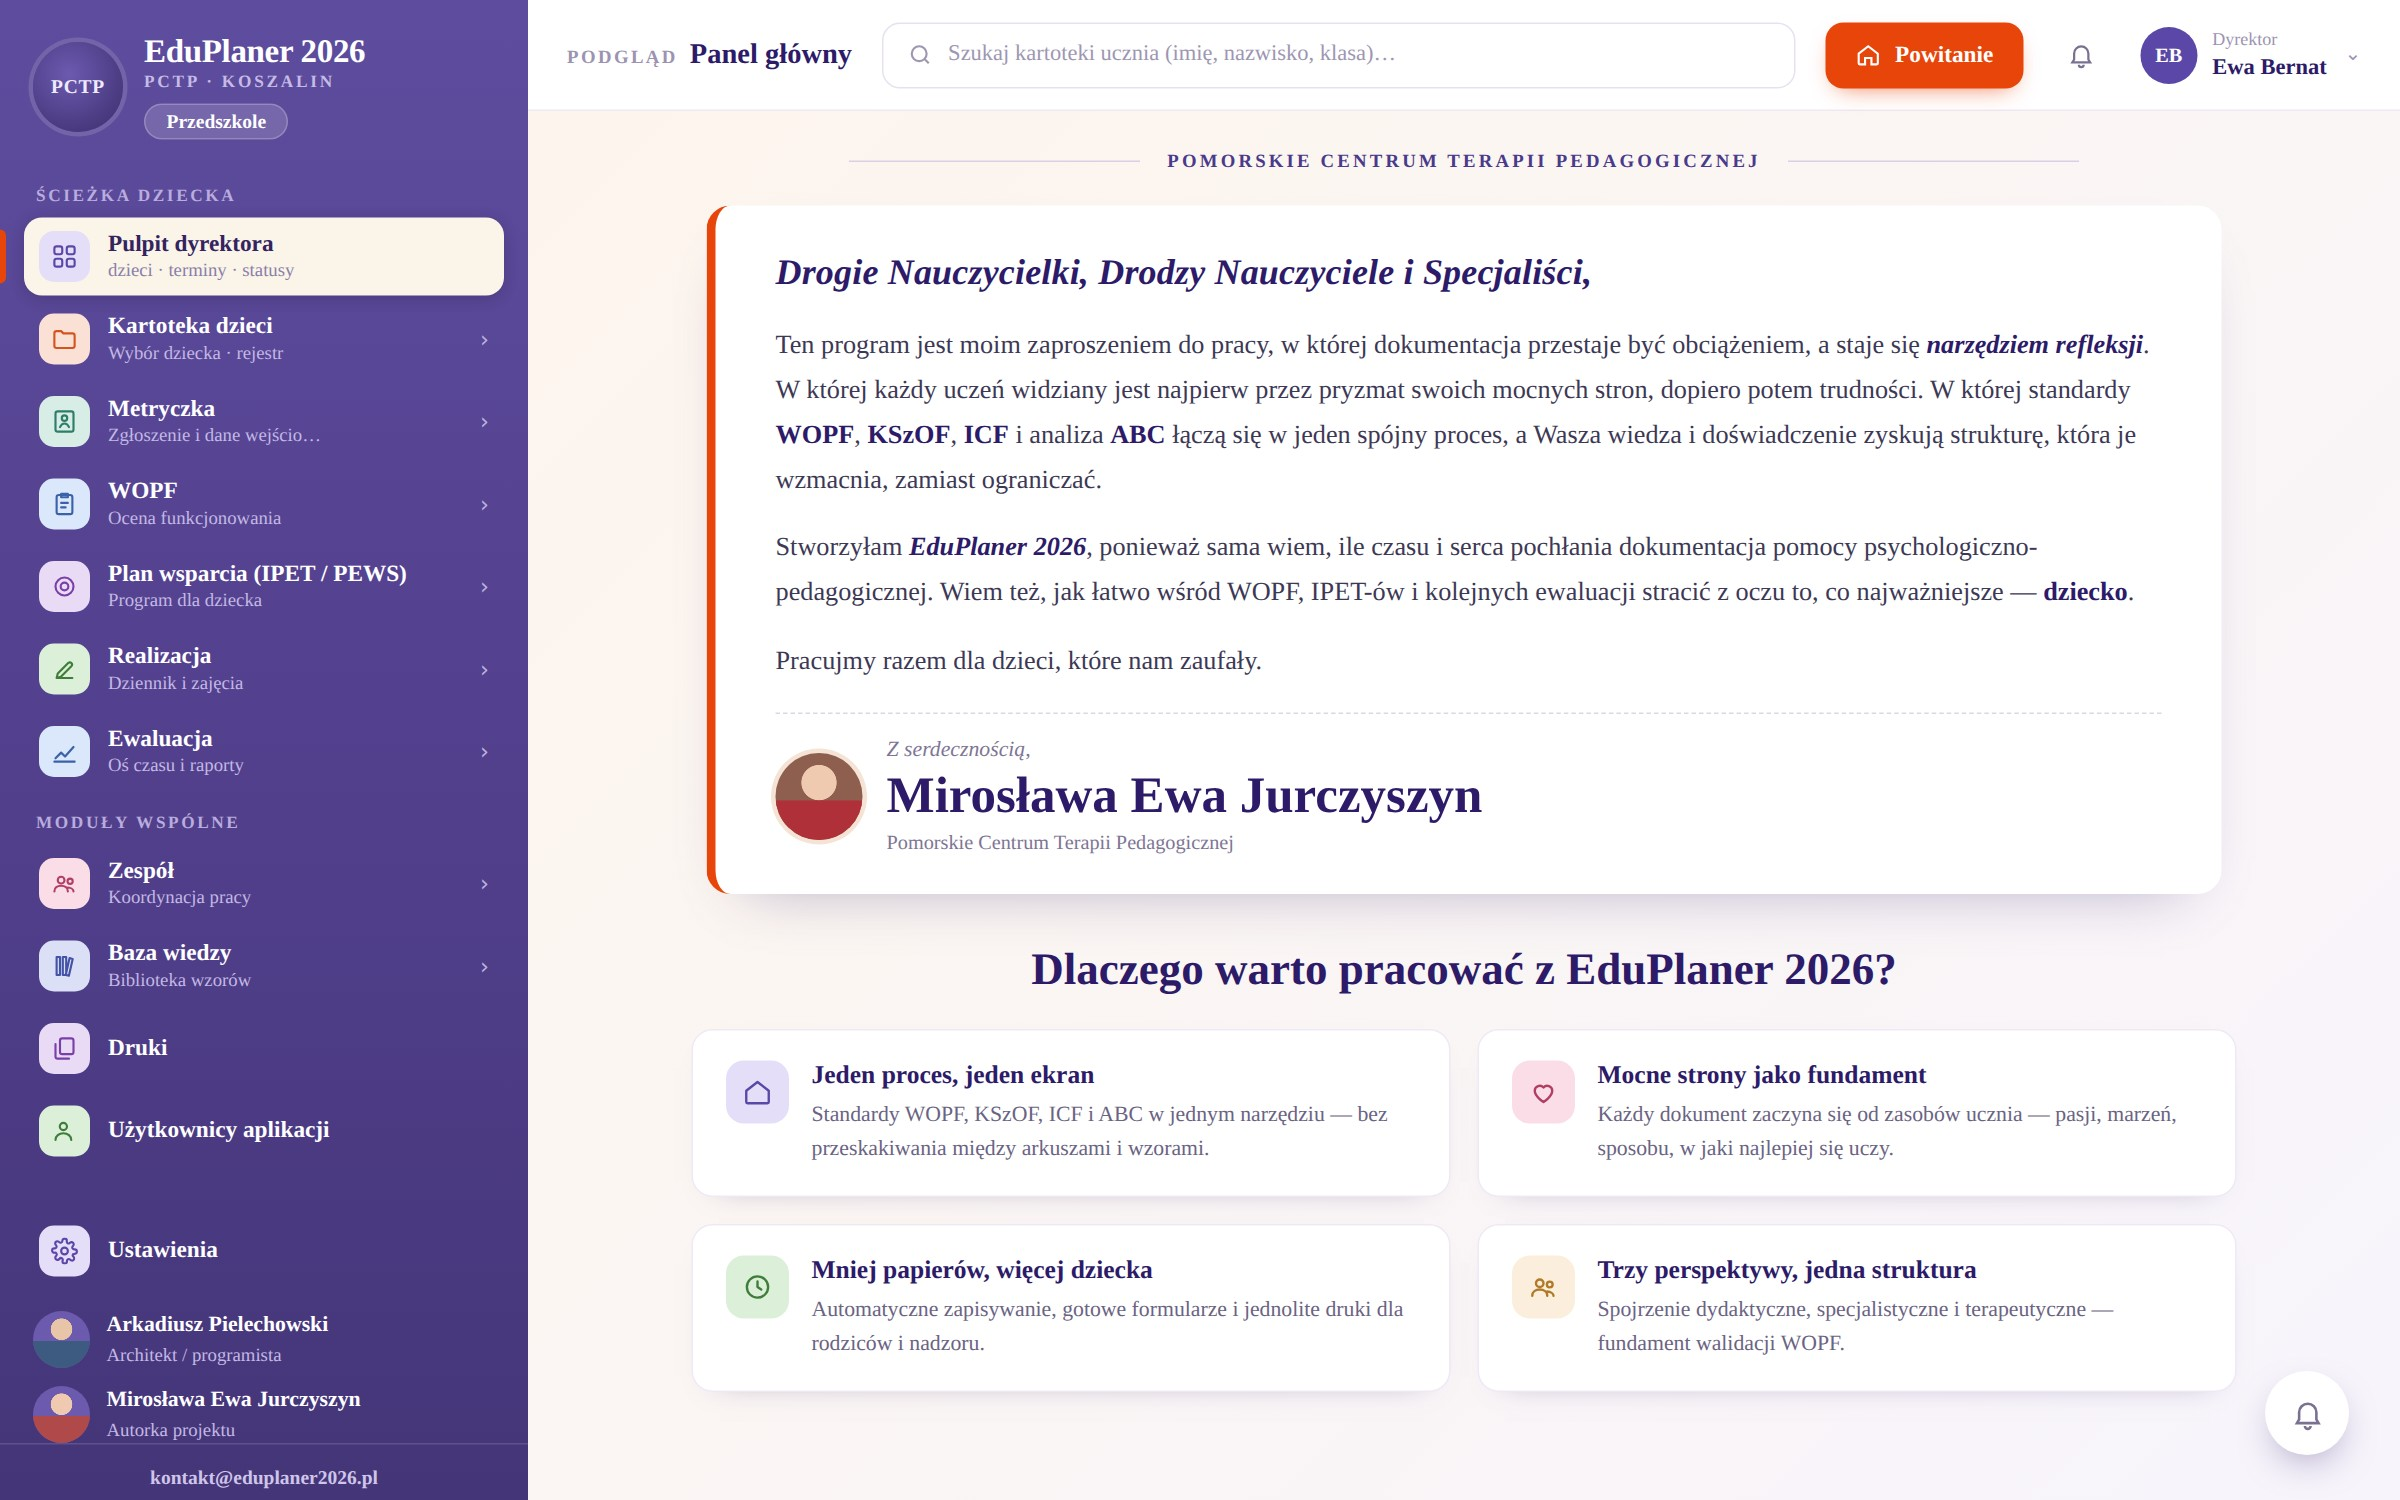
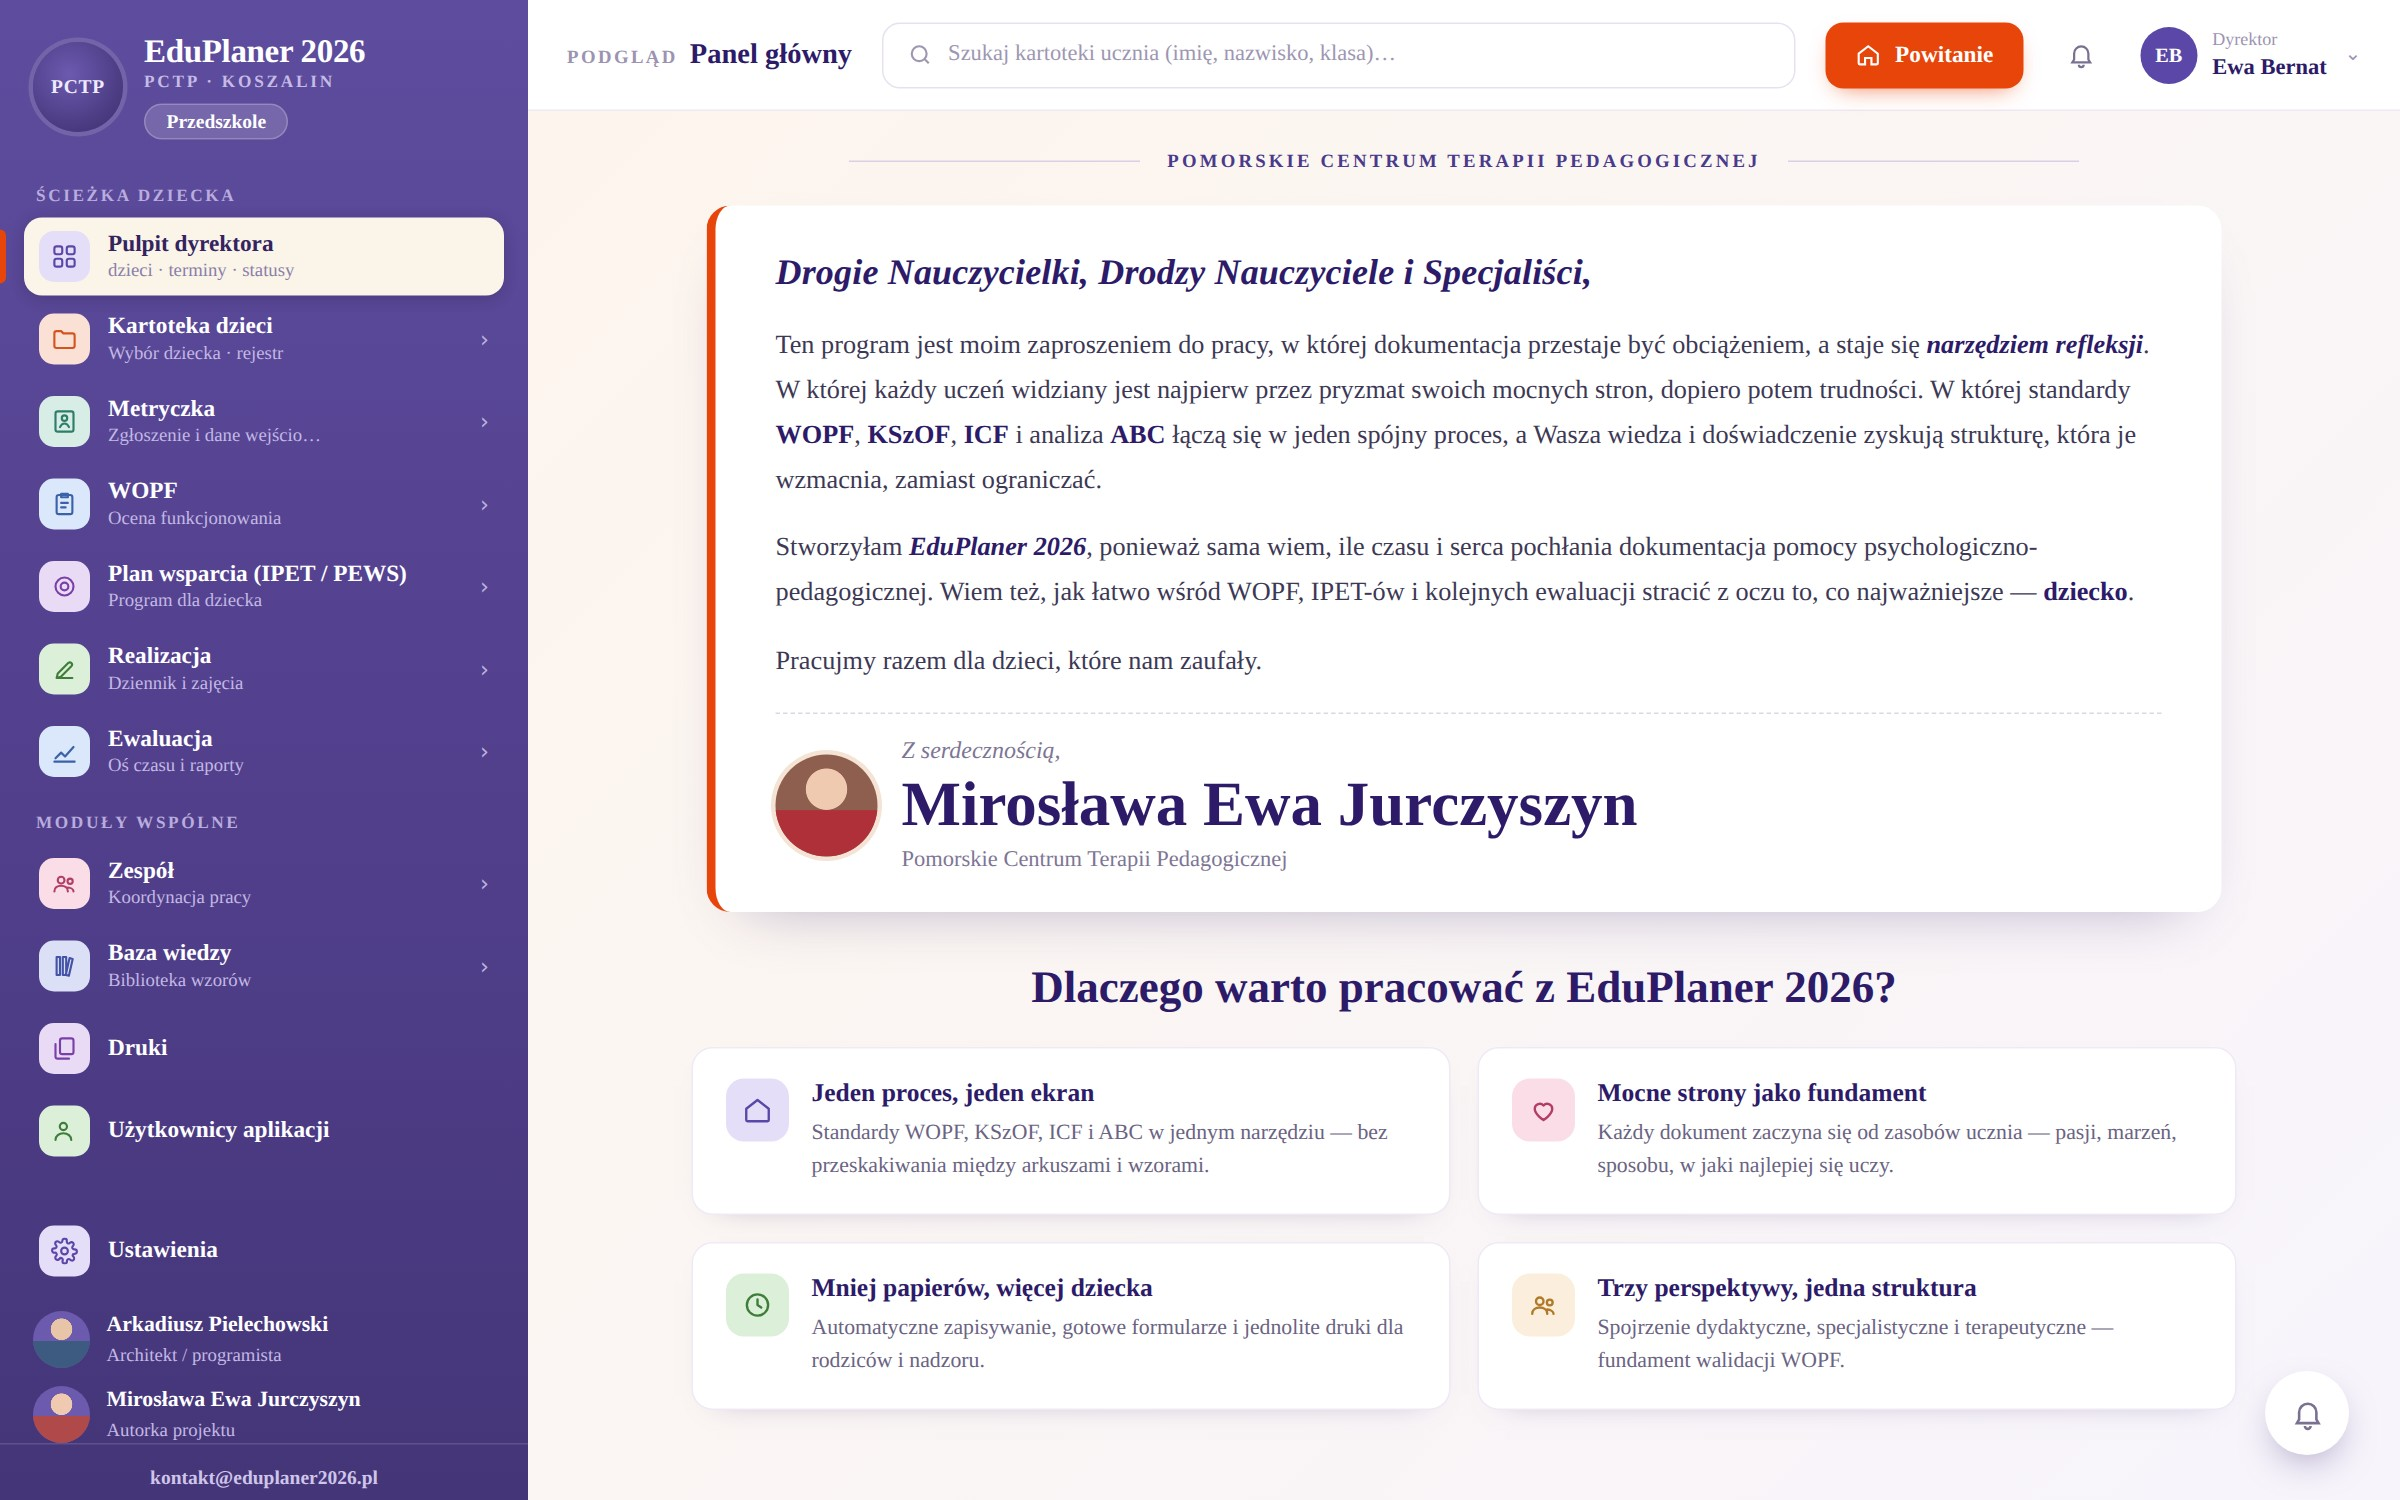
Dodaj Kartoteke dzieci i powieksz podpis autorki
Taśma ekranów pokazuje teraz wyłącznie ekrany z aktualnej aplikacji:
Panel glowny i Kartoteka dzieci. Usuniete zrzuty z poprzedniej wersji
narzedzia. Podpis autorki wiekszy, kadr w hero mocniej przyblizony,
zeby list i podpis byly czytelne.

Claude-Session: https://claude.ai/code/session_015YWa6N9XfSUwAfVwQmV7iq

diff --git a/eduplaner2026/index.html b/eduplaner2026/index.html
@@ -150,7 +150,7 @@ svg.ck{flex:none;width:18px;height:18px;margin-top:3px}
 /* monitor z aplikacją w hero ---------------------------------------- */
 .device{position:relative;z-index:2;margin-right:-150px;border-radius:16px;padding:11px 11px 13px;background:linear-gradient(160deg,#2A2145,#161027);box-shadow:0 50px 90px -40px rgba(0,0,0,.75),inset 0 0 0 1px rgba(255,255,255,.09);animation:wake .9s cubic-bezier(.2,.8,.25,1) both}
 .device .screen{border-radius:8px;overflow:hidden;background:#fff;position:relative;aspect-ratio:16/9.4}
-.device .screen img{width:100%;height:100%;object-fit:cover;object-position:top left;display:block;transform:scale(1.34);transform-origin:0 0}
+.device .screen img{width:100%;height:100%;object-fit:cover;object-position:top left;display:block;transform:scale(1.5);transform-origin:0 8%}
 .device .glare{position:absolute;inset:0;background:linear-gradient(115deg,rgba(255,255,255,.16) 0%,transparent 34%);pointer-events:none}
 .device .foot{height:4px;width:64px;margin:9px auto 0;border-radius:99px;background:rgba(255,255,255,.16)}
 .livedot{position:absolute;right:22px;bottom:-16px;z-index:5;display:flex;align-items:center;gap:8px;background:rgba(20,13,40,.78);backdrop-filter:blur(6px);border:1px solid rgba(255,255,255,.2);border-radius:99px;padding:7px 14px 7px 11px;color:#F0ECF7;font-size:12.5px;font-weight:600;animation:wake .9s ease .45s both}
@@ -647,11 +647,8 @@ svg.ck{flex:none;width:18px;height:18px;margin-top:3px}
       <div class="nav-btns"><button type="button" data-dir="-1" aria-label="Poprzedni ekran">←</button><button type="button" data-dir="1" aria-label="Następny ekran">→</button></div>
     </div>
     <div class="track" id="track">
-      <div class="item"><figure class="shot"><span class="bar" aria-hidden="true"><i></i><i></i><i></i><b>EduPlaner 2026 · ① Obserwacje WOPF</b></span><img src="img/ekran-obserwacje-wopf.jpg" alt="① Obserwacje WOPF" loading="lazy"><span class="cap">① Obserwacje WOPF</span></figure><p class="shot-desc">Osoba, miejsce, narzędzie: KSzOF, ABC, ToM, sensoryka. Tabela oceny przełącza się sama.</p></div>
-      <div class="item"><figure class="shot"><span class="bar" aria-hidden="true"><i></i><i></i><i></i><b>EduPlaner 2026 · Karta Funkcjonalna WOPF</b></span><img src="img/ekran-karta-start.jpg" alt="Karta Funkcjonalna WOPF" loading="lazy"><span class="cap">Karta Funkcjonalna WOPF</span></figure><p class="shot-desc">Obserwacja i synteza w&nbsp;jednym przepływie, jedna karta na każdy obszar funkcjonowania.</p></div>
-      <div class="item"><figure class="shot"><span class="bar" aria-hidden="true"><i></i><i></i><i></i><b>EduPlaner 2026 · Obszar: funkcjonowanie poznawcze</b></span><img src="img/ekran-karta-wopf.jpg" alt="Obszar: funkcjonowanie poznawcze" loading="lazy"><span class="cap">Obszar: funkcjonowanie poznawcze</span></figure><p class="shot-desc">Każdy obszar na jednej karcie: obserwacja po lewej, banki trudności i&nbsp;celów SMART po prawej.</p></div>
-      <div class="item"><figure class="shot"><span class="bar" aria-hidden="true"><i></i><i></i><i></i><b>EduPlaner 2026 · ③ Baza 120 pozycji</b></span><img src="img/ekran-baza.jpg" alt="③ Baza 120 pozycji" loading="lazy"><span class="cap">③ Baza 120 pozycji</span></figure><p class="shot-desc">Ćwiczenia i&nbsp;dostosowania z&nbsp;celem, przebiegiem i&nbsp;wskaźnikiem. Jeden klik: „Do programu”.</p></div>
-      <div class="item"><figure class="shot"><span class="bar" aria-hidden="true"><i></i><i></i><i></i><b>EduPlaner 2026 · ⑫ Druk IPET</b></span><img src="img/ekran-druk-ipet.jpg" alt="⑫ Druk IPET" loading="lazy"><span class="cap">⑫ Druk IPET</span></figure><p class="shot-desc">Metryczka, dziewięć sekcji, cele ciągnięte na żywo z&nbsp;WOPF. Drukuj lub zapisz PDF.</p></div>
+      <div class="item"><figure class="shot"><span class="bar" aria-hidden="true"><i></i><i></i><i></i><b>EduPlaner 2026 · Panel główny</b></span><img src="img/app-panel-glowny.jpg" alt="Ekran aplikacji: Panel główny" loading="lazy"><span class="cap">Panel główny</span></figure><p class="shot-desc">Menu prowadzi przez cały proces: metryczka, WOPF, plan wsparcia, realizacja, ewaluacja. Na pulpicie list autorki i moduły wspólne.</p></div>
+      <div class="item"><figure class="shot"><span class="bar" aria-hidden="true"><i></i><i></i><i></i><b>EduPlaner 2026 · Kartoteka dzieci</b></span><img src="img/app-kartoteka.jpg" alt="Ekran aplikacji: Kartoteka dzieci" loading="lazy"><span class="cap">Kartoteka dzieci</span></figure><p class="shot-desc">Wszystkie dzieci w placówce z datą urodzenia, grupą i postępem dokumentacji. Wybranie dziecka otwiera jego teczkę.</p></div>
     </div>
     <div class="dots" id="dots" aria-hidden="true"></div>
   </div>
